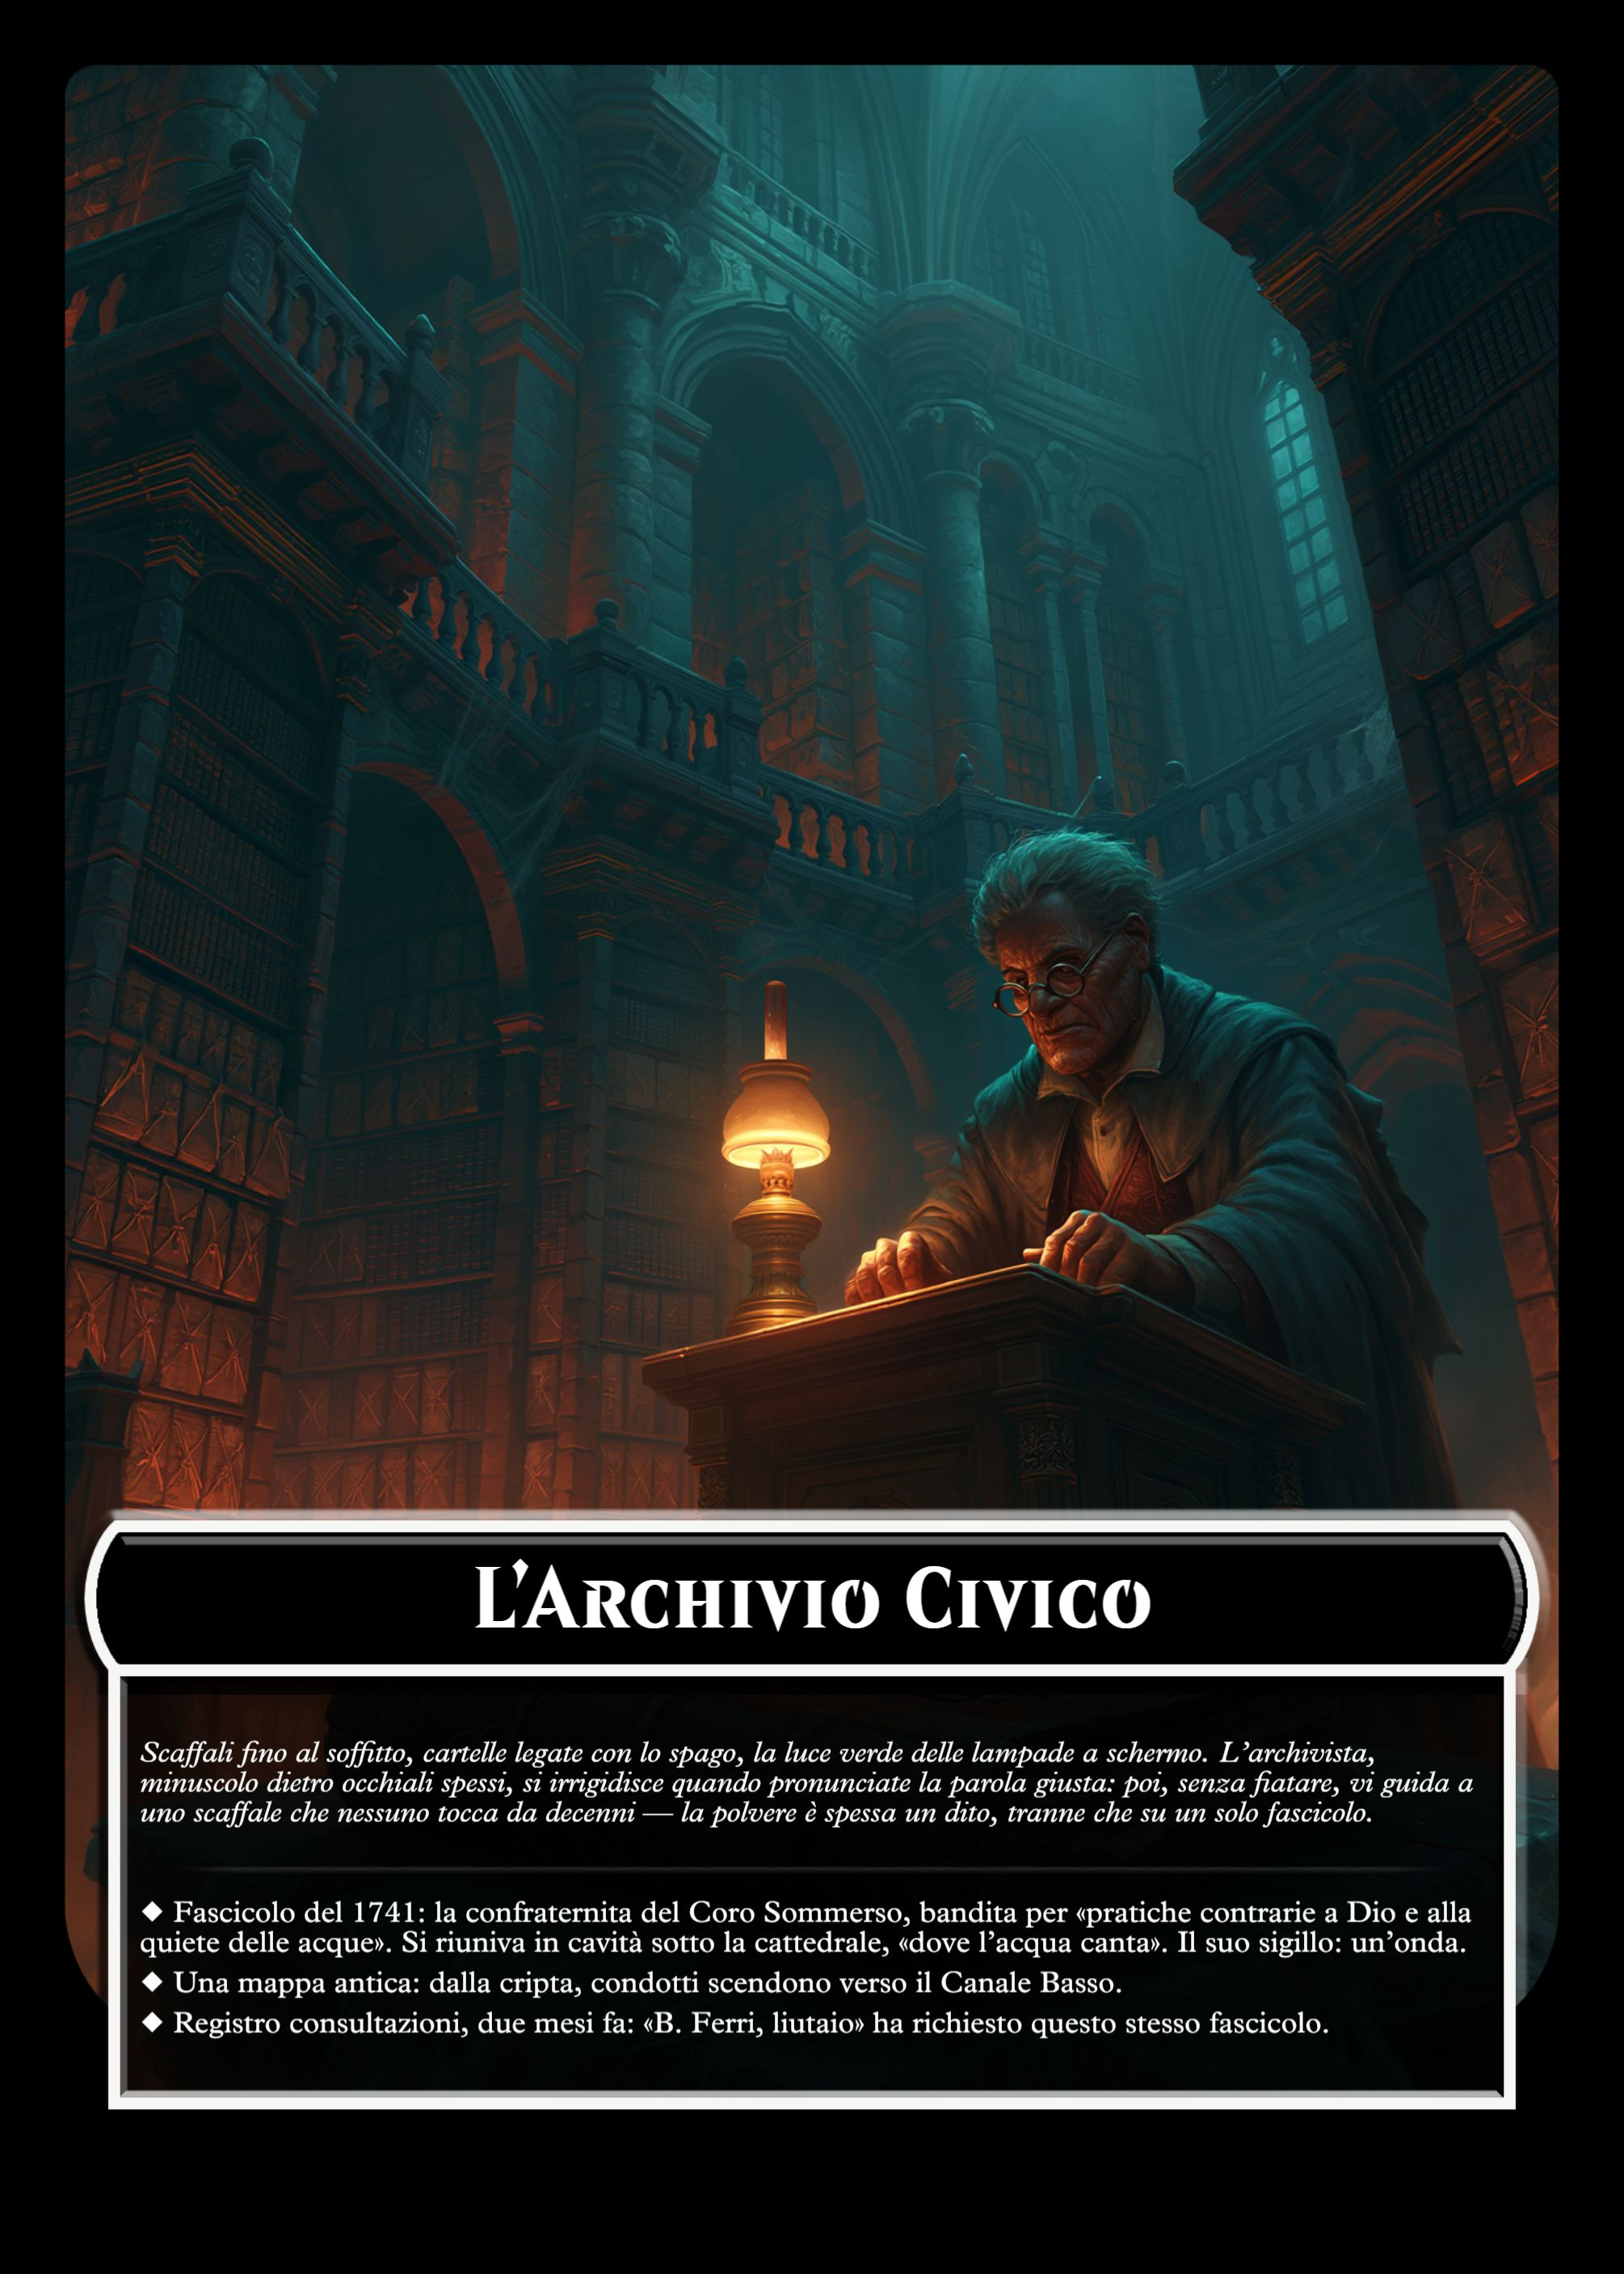
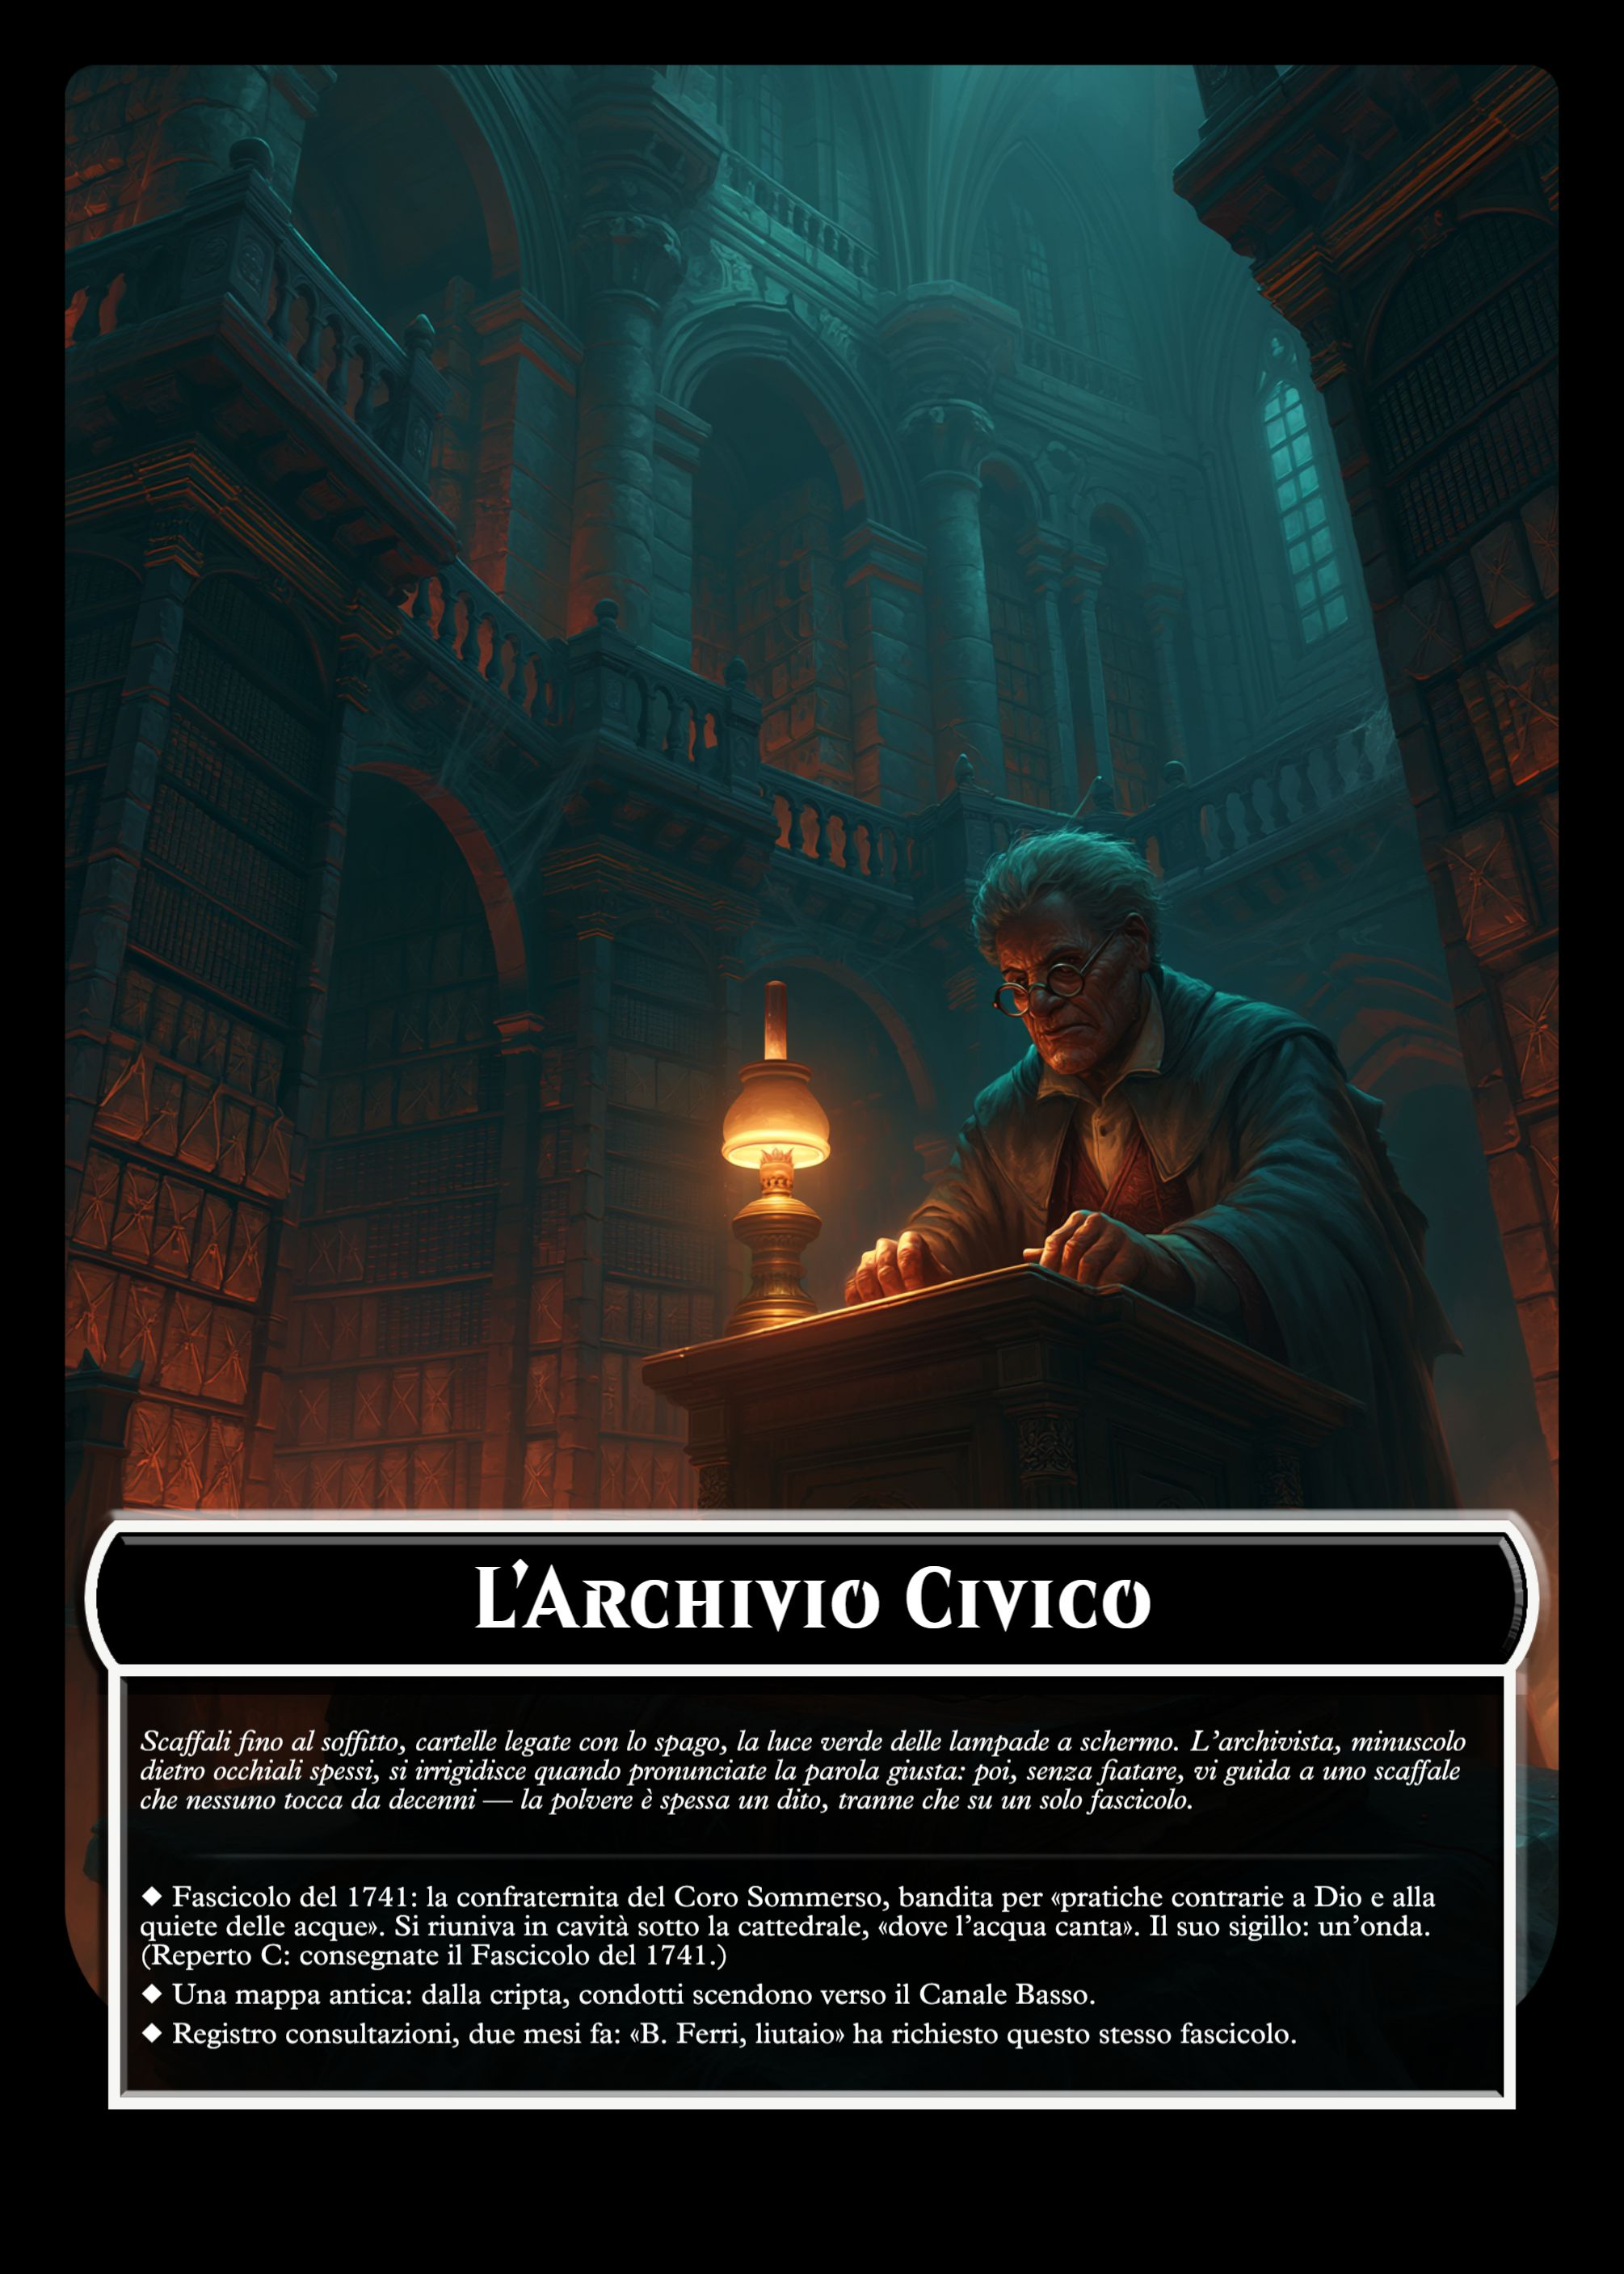
Reperti: il tag va sulla carta Luogo, non in una tabella nel regolamento
I giocatori scoprono un Reperto core direttamente leggendo l'indizio giusto
sulla carta Luogo: ogni indizio che corrisponde a un documento stampabile
ora riporta tra parentesi "(Reperto X: consegnate...)" - visibile solo
visitando quel luogo, come qualsiasi altro indizio, nessuna consultazione
incrociata col regolamento necessaria.

Il bullet Reperti nel regolamento si accorcia di conseguenza: non serve più
elencare quale indizio di quale luogo, la carta lo dice da sola.

Changed region(s): [[0.0617, 0.742, 0.8945, 0.8966]]

diff --git a/scripts/cardconjurer/cards-data.js b/scripts/cardconjurer/cards-data.js
@@ -178,7 +178,7 @@ const LUOGHI = [
   { n: 1, nome: 'Il Campanile di San Teodoro', req: 'Disponibile dall’inizio',
     testo: 'La scala a chiocciola sale nel buio, ottanta gradini che Ruggero conosceva a memoria. In cima, la cella campanaria è un disordine congelato: lo sgabello rovesciato, la lanterna ancora appesa al gancio, la cena intatta sotto un panno. Le tre grandi campane pendono immobili come bestie addormentate, e fa più freddo di quanto dovrebbe.',
     indizi: ['Colate di cera nera sui gradini — troppo in alto perché vengano dalle candele della chiesa.',
-             'Il diario di Ruggero, con l’ultima pagina strappata. Ricalcando i solchi della penna leggete: «...alle 3 in punto, ogni notte. Tre rintocchi, poi uno, poi cinque. Non sono io a suonare.»',
+             'Il diario di Ruggero, con l’ultima pagina strappata. Ricalcando i solchi della penna leggete: «...alle 3 in punto, ogni notte. Tre rintocchi, poi uno, poi cinque. Non sono io a suonare.» (Reperto A: consegnate il Diario di Ruggero.)',
              'Graffiata sul legno della balaustra, una parola: SOMMERSO.'],
     approfondimenti: [
       { tipo: 'Osservazione', testo: 'Tra le assi, un frammento di spartito scritto a mano. Le note non sono per organo: sono per campane.' },
@@ -213,7 +213,7 @@ const LUOGHI = [
   { n: 5, nome: 'Bottega del Liutaio Ferri', req: 'Serve: la CORDA DI VIOLINO (Luogo 2)',
     testo: 'La bottega è chiusa da giorni, la polvere ha già preso possesso delle vetrine; la porta sul retro cede a una spallata. Dentro, violini appesi come selvaggina e un silenzio sbagliato per un luogo nato per fare musica. Il banco da lavoro è in ordine perfetto: chi è partito, sapeva di partire.',
     indizi: ['Bastiano Ferri è sparito da tre giorni. Sul banco, un diapason d’argento inciso con un’onda.',
-             'Il registro consegne, ultima riga: «40 candele di cera nera — consegna al C.B., molo terzo, il vecchio deposito — pagato B.F.»',
+             'Il registro consegne, ultima riga: «40 candele di cera nera — consegna al C.B., molo terzo, il vecchio deposito — pagato B.F.» (Reperto B: consegnate il Registro delle Consegne.)',
              'Uno spartito: «Dal Profondo», riscritto per campane. In margine: «il bronzo canta, la pietra risponde, l’acqua ricorda».'],
     approfondimenti: [
       { tipo: 'Osservazione', testo: 'Nel camino, cenere di carta ancora tiepida. Un lembo si salva, grafia febbrile: «...non riesco più a fermarlo, il Coro canta anche senza di me. Che Dio perdoni ciò che ho svegliato. — B.»' },
@@ -230,7 +230,7 @@ const LUOGHI = [
     ] },
   { n: 7, nome: 'L’Archivio Civico', req: 'Serve: la parola chiave SOMMERSO (Luogo 1)',
     testo: 'Scaffali fino al soffitto, cartelle legate con lo spago, la luce verde delle lampade a schermo. L’archivista, minuscolo dietro occhiali spessi, si irrigidisce quando pronunciate la parola giusta: poi, senza fiatare, vi guida a uno scaffale che nessuno tocca da decenni — la polvere è spessa un dito, tranne che su un solo fascicolo.',
-    indizi: ['Fascicolo del 1741: la confraternita del Coro Sommerso, bandita per «pratiche contrarie a Dio e alla quiete delle acque». Si riuniva in cavità sotto la cattedrale, «dove l’acqua canta». Il suo sigillo: un’onda.',
+    indizi: ['Fascicolo del 1741: la confraternita del Coro Sommerso, bandita per «pratiche contrarie a Dio e alla quiete delle acque». Si riuniva in cavità sotto la cattedrale, «dove l’acqua canta». Il suo sigillo: un’onda. (Reperto C: consegnate il Fascicolo del 1741.)',
              'Una mappa antica: dalla cripta, condotti scendono verso il Canale Basso.',
              'Registro consultazioni, due mesi fa: «B. Ferri, liutaio» ha richiesto questo stesso fascicolo.'],
     approfondimenti: [

diff --git a/src/gen_docs.py b/src/gen_docs.py
@@ -176,12 +176,12 @@ def regolamento():
                '(Bice) con Ottone: offrendogli da bere, cercate la carta col dorso \u201c2 \u00b7 Testimone\u201d '
                'e leggetela. Se un luogo non ha la carta del tipo cercato, semplicemente non c\u2019\u00e8 '
                'nulla da trovare l\u00ec per quell\u2019eroe.', 'box'))
-    e.append(LI('<b>Reperti</b> \u2014 alcuni indizi core corrispondono a un documento vero e proprio: '
-                'quando lo leggete, non limitatevi alla carta, consegnate il foglio stampato al '
-                'gruppo e lasciate che lo leggano loro. Episodio 1: <b>Reperto A</b> \u2014 Diario di '
-                'Ruggero (Luogo 1) \u00b7 <b>Reperto B</b> \u2014 Registro delle Consegne (Luogo 5) \u00b7 '
-                '<b>Reperto C</b> \u2014 Fascicolo del 1741 (Luogo 7). Sono solo un modo pi\u00f9 tangibile '
-                'di leggere lo stesso indizio: non contengono nulla in pi\u00f9 rispetto alla carta.'))
+    e.append(LI('<b>Reperti</b> \u2014 nessuna azione o prova in pi\u00f9: si ottengono semplicemente '
+                'visitando il luogo, come qualsiasi indizio core. Quando un indizio, sulla carta '
+                'stessa, riporta tra parentesi <i>(Reperto X: consegnate...)</i>, non limitatevi a '
+                'leggerlo \u2014 consegnate al gruppo il foglio stampato indicato e lasciate che lo '
+                'leggano loro. Sono solo un modo pi\u00f9 tangibile di leggere lo stesso indizio: non '
+                'contengono nulla in pi\u00f9 rispetto alla carta.'))
     e.append(P('Chiudere l\u2019indagine', 'h2'))
     e.append(P("Quando esaurite le ore (o prima, se vi sentite pronti) rispondete <b>per iscritto</b> "
                "alle <b>4 Domande</b> sul Taccuino: discutetene insieme, \u00e8 il cuore del gioco. "

diff --git a/src/gen_cards.py b/src/gen_cards.py
@@ -104,7 +104,8 @@ LUOGHI = [
                'lo sgabello di Ruggero è rovesciato, la sua lanterna ancora appesa.',
          indizi=['Colate di <b>cera nera</b> sui gradini — troppo in alto perché vengano dalle candele della chiesa.',
                  'Il diario di Ruggero, con l’ultima pagina strappata. Ricalcando i solchi della penna leggete: '
-                 '«...alle 3 in punto, ogni notte. <b>Tre rintocchi, poi uno, poi cinque.</b> Non sono io a suonare.»',
+                 '«...alle 3 in punto, ogni notte. <b>Tre rintocchi, poi uno, poi cinque.</b> Non sono io a suonare.» '
+                 '<i>(Reperto A: consegnate il Diario di Ruggero.)</i>',
                  'Graffiata sul legno della balaustra, una parola: <b>SOMMERSO</b>.'],
          approfondimenti=[
              dict(tipo='Osservazione',
@@ -164,7 +165,8 @@ LUOGHI = [
          indizi=['Bastiano Ferri è sparito da tre giorni. Sul banco, un <b>diapason d’argento</b> inciso '
                  'con un’onda.',
                  'Il registro consegne, ultima riga: «40 candele di cera nera — consegna al <b>C.B.</b>, '
-                 'molo terzo, il vecchio deposito — pagato B.F.»',
+                 'molo terzo, il vecchio deposito — pagato B.F.» '
+                 '<i>(Reperto B: consegnate il Registro delle Consegne.)</i>',
                  'Uno spartito: «Dal Profondo», riscritto <b>per campane</b>. In margine: «il bronzo canta, '
                  'la pietra risponde, l’acqua ricorda».'],
          approfondimenti=[
@@ -200,7 +202,8 @@ LUOGHI = [
                'da decenni.',
          indizi=['Fascicolo del 1741: la confraternita del <b>Coro Sommerso</b>, bandita per «pratiche '
                  'contrarie a Dio e alla quiete delle acque». Si riuniva in cavità sotto la cattedrale, '
-                 '«dove l’acqua canta». Il suo sigillo: un’onda.',
+                 '«dove l’acqua canta». Il suo sigillo: un’onda. '
+                 '<i>(Reperto C: consegnate il Fascicolo del 1741.)</i>',
                  'Una mappa antica: dalla cripta, condotti scendono verso il <b>Canale Basso</b>.',
                  'Registro consultazioni, due mesi fa: «<b>B. Ferri, liutaio</b>» ha richiesto questo '
                  'stesso fascicolo.'],